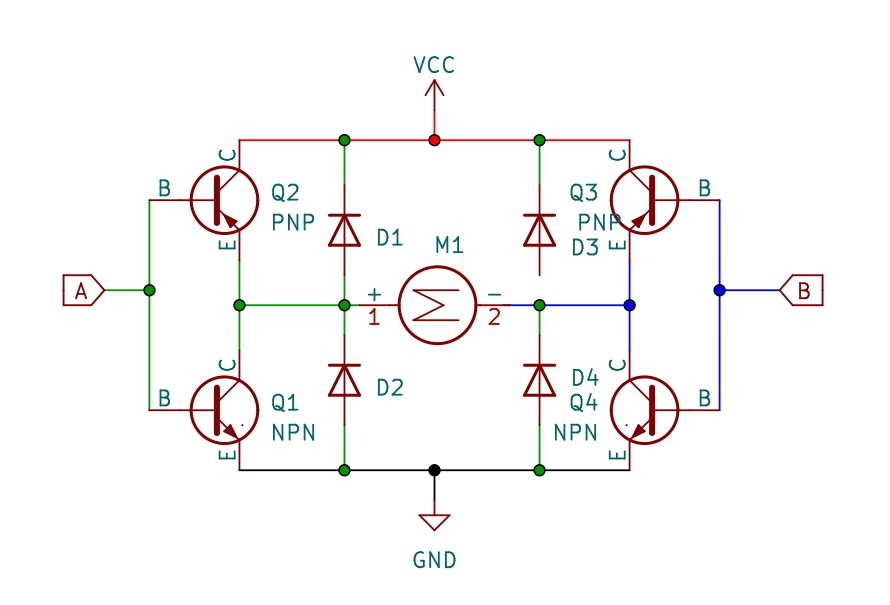
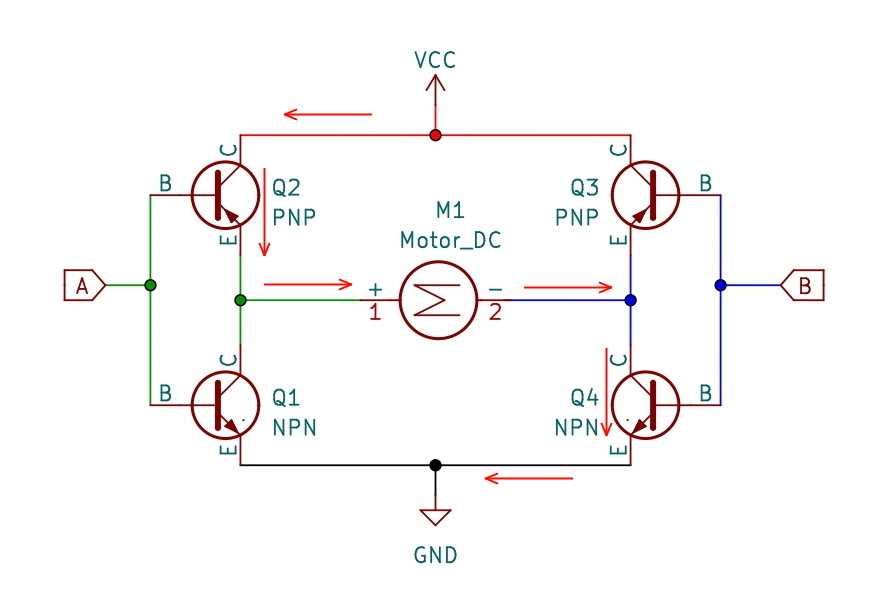
Update h_bridge.md

Changed region(s): [[0.0607, 0.0595, 0.9404, 0.9521], [0.4854, 0.3273, 0.5157, 0.357]]

diff --git a/_projects/h_bridge.md b/_projects/h_bridge.md
@@ -34,15 +34,15 @@ Voici un schéma de pont en H constitué de 4 transistors (2 PNP et 2 NPN) :
 
 Lorsque la tension de la pin 6 de l'Arduino est de 5 V et que la tension de la pin 5 est nulle, les transistors Q1 et Q3 forment un trajet conducteur et le courant circule vers la droite dans le moteur.
 
-{% include figure.html path="assets/img/projects/h_bridge/1.jpg" class="img-fluid rounded z-depth-1" %}
+{% include figure.html path="assets/img/projects/h_bridge/2.jpg" class="img-fluid rounded z-depth-1" %}
 
 Si on inverse la polarité, ce sont les deux autres transistors qui deviennent conducteurs, et le courant circule maintenant vers la gauche dans le moteur.
 
-{% include figure.html path="assets/img/projects/h_bridge/1.jpg" class="img-fluid rounded z-depth-1" %}
+{% include figure.html path="assets/img/projects/h_bridge/3.jpg" class="img-fluid rounded z-depth-1" %}
 
 On ajoute des diodes afin de protéger le microcontrôleur contre les courants générés par la rotation du moteur.
 
-{% include figure.html path="assets/img/projects/h_bridge/1.jpg" class="img-fluid rounded z-depth-1" %}
+{% include figure.html path="assets/img/projects/h_bridge/4.jpg" class="img-fluid rounded z-depth-1" %}
 
 
 ## Tester un pont en H
